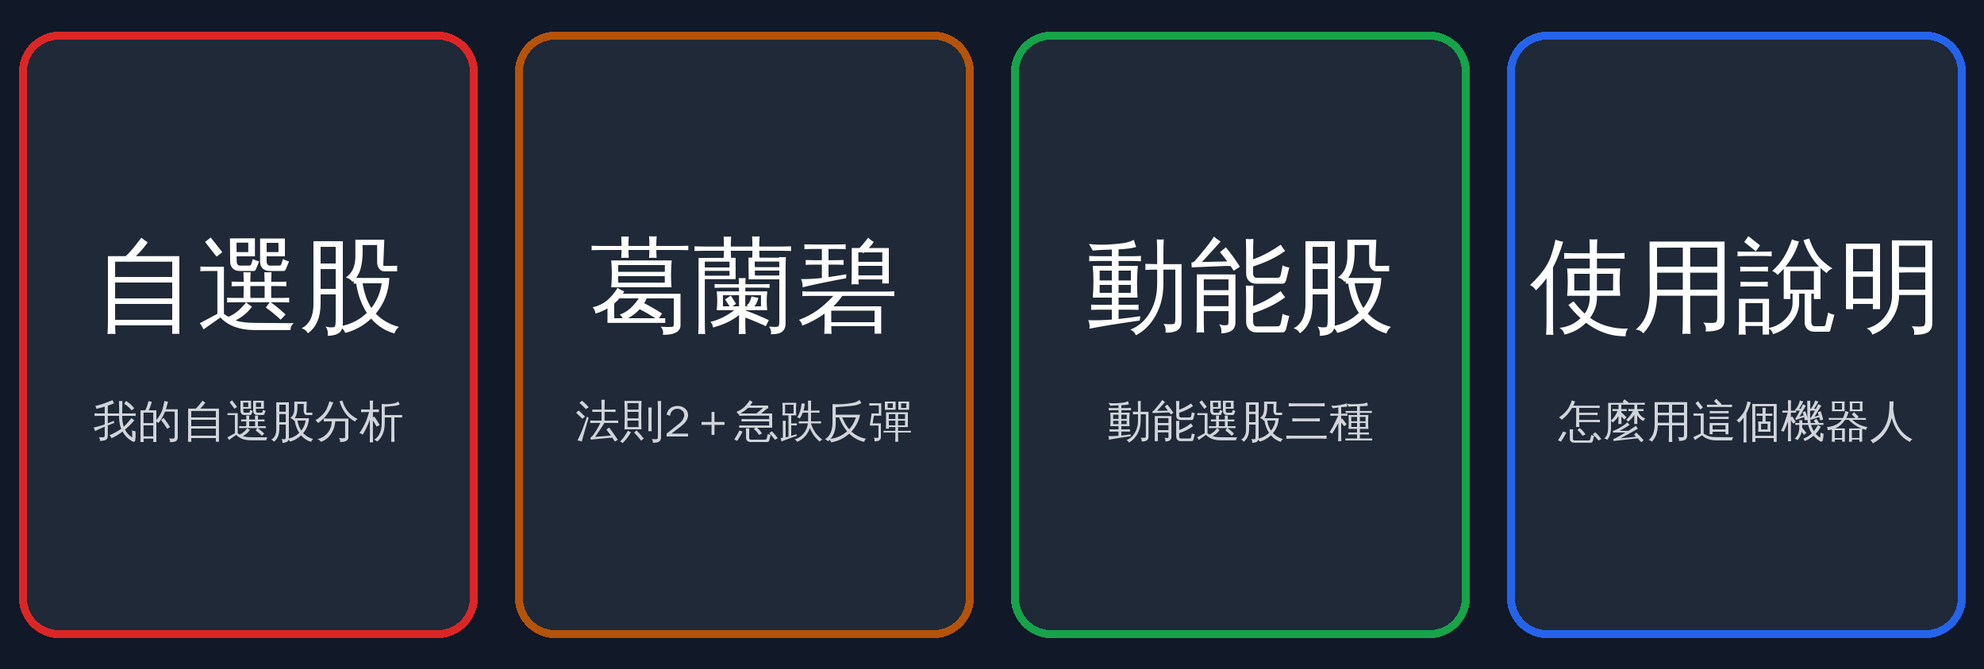
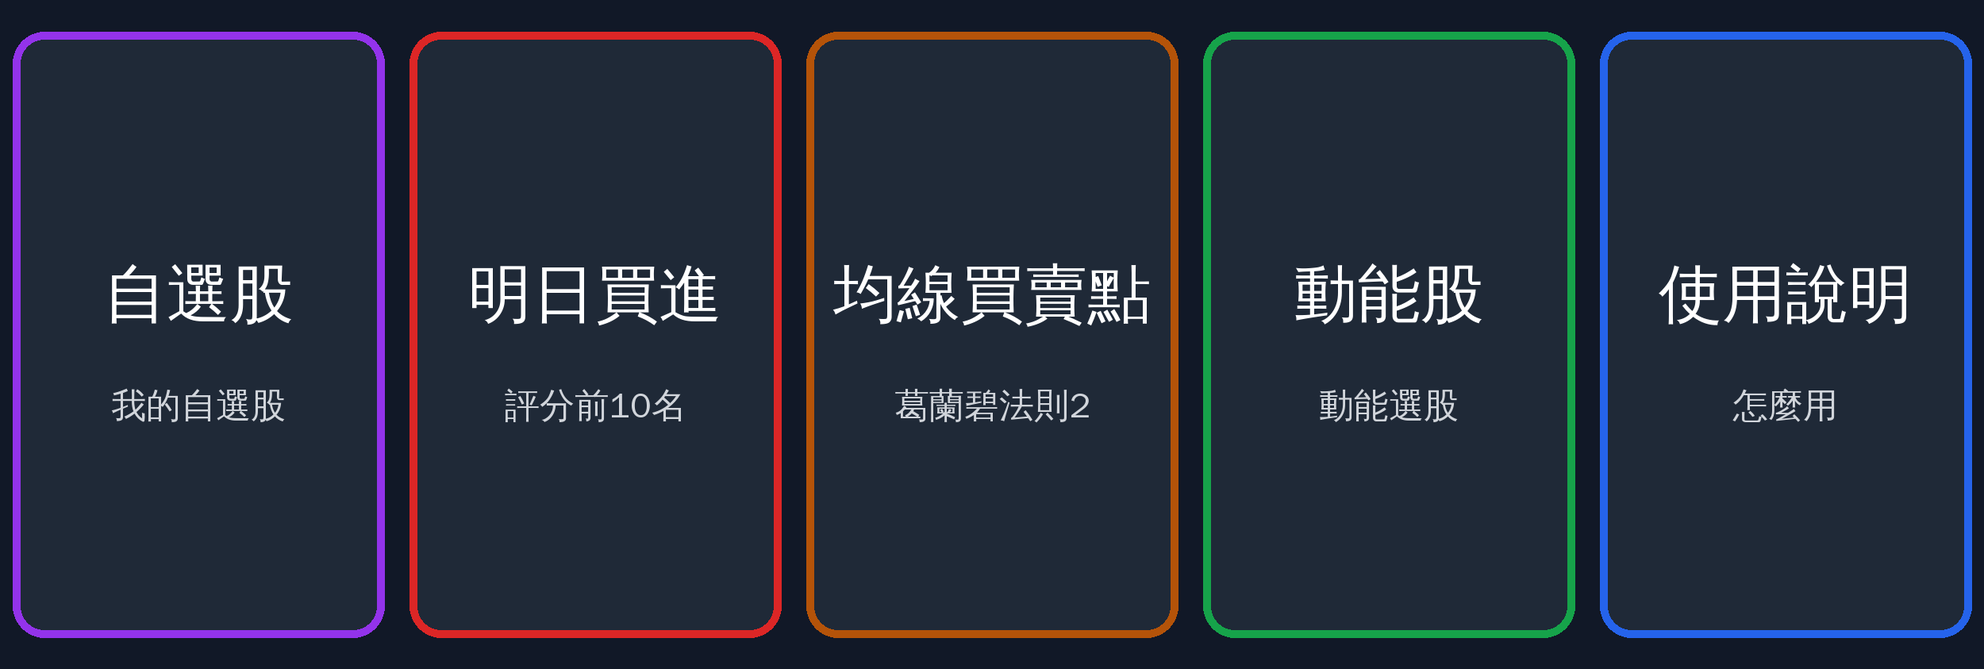
LINE 機器人和選股頁同步：新增「明日買進」、葛蘭碧改名「均線買賣點」 (#119)
* 模擬持股改用股數輸入，可模擬零股

資料表 shares 欄位仍存張數（numeric），零股存成小數，不需改資料表。

Claude-Session: https://claude.ai/code/session_01HKgB2HeqGr9wm6n5qEToDQ

* 葛蘭碧準備買進：標示盤整股（近 40 日穿越均線 6 次以上）並排到後面

Claude-Session: https://claude.ai/code/session_01HKgB2HeqGr9wm6n5qEToDQ

* 葛蘭碧：停損價、比大盤強弱、持股過熱提醒，模擬持股顯示出場狀態

依一年回測：盤整標示改為不影響排序；停損定為買進價 -8%；
法則 8 過熱改為提醒上移停損而非賣出。

Claude-Session: https://claude.ai/code/session_01HKgB2HeqGr9wm6n5qEToDQ

* 每日排程在每月 1～20 號補抓上個月的月營收

Claude-Session: https://claude.ai/code/session_01HKgB2HeqGr9wm6n5qEToDQ

* 選股頁改成加入自選股，自選股頁整合葛蘭碧與每日選股分析

- 葛蘭碧：拿掉「模擬交易」分頁，「加入模擬持股」改成「⭐ 加入自選股」
- 每日選股：拿掉「模擬帳戶」分頁，排行榜下方改成加入自選股；個股分數走勢加「⭐ 加入自選股」按鈕
- 規則回測改成單一個股：每個評分日的總分、排名與之後 5／10／20 日漲跌幅，比較進前 N 名時與其他時候；整體回測收進展開區
- 自選股頁分成總覽、葛蘭碧分析、每日選股分析三個分頁，總覽可加入模擬持股
- 移除不再使用的 simulate_trades、get_top_picks

Claude-Session: https://claude.ai/code/session_01HKgB2HeqGr9wm6n5qEToDQ

* 類股輪動併入全台股總覽

- 總覽分成「大盤」「類股輪動」「全台股數據」三個分頁
- 類股輪動的計算與畫面搬到 utils/sector.py，拿掉獨立的類股輪動頁
- 總覽的近 40 天收盤價多取成交量，類股輪動直接共用，不重複載入
- 側邊篩選註明只套用在全台股數據分頁；首頁頁面說明一併更新

Claude-Session: https://claude.ai/code/session_01HKgB2HeqGr9wm6n5qEToDQ

* 家人各自帳號登入，自選股與模擬持股可分組

- 登入支援多個帳號：原本的 USERNAME / PASSWORD 是主帳號，家人帳號寫在 secrets 的 [users.帳號]
- 新增 watch_groups 分組表（sql/watch_groups.sql）；自選股、模擬持股加 group_id，自選股主鍵改成 (group_id, stock_id)
- 每個帳號可以有多個分組：自選股、模擬持股頁上方切換分組，自選股頁可以新增、改名稱、刪除空的分組
- 葛蘭碧、每日選股、個股分析卡的「加入自選股」與自選股頁的「加入模擬持股」都寫進目前分組
- 原本的資料放在「預設」分組，主帳號第一次登入時認領
- 側邊欄顯示目前登入的人與登出按鈕
- 修正葛蘭碧「只看自選股與持有中的模擬持股」在清單是空的時候會出錯
[…]

Changed region(s): [[0.0, 0.0308, 0.9984, 0.9561]]

diff --git a/supabase/functions/line-webhook/lookup.ts b/supabase/functions/line-webhook/lookup.ts
@@ -16,7 +16,8 @@ const WATCH_WORDS = new Set(["自選", "自選股", "我的自選股"]);
 const MYID_WORDS = new Set(["我的id", "myid", "id"]);
 // 選單清單：每晚由 line_lists.py 算好的回覆檔
 const LIST_WORDS: Record<string, string> = {
-  "葛蘭碧": "granville.json", "等待法則2": "granville.json",
+  "明日買進": "picks.json", "買進": "picks.json", "選股": "picks.json",
+  "均線買賣點": "granville.json", "均線": "granville.json", "葛蘭碧": "granville.json", "等待法則2": "granville.json",
   "動能": "momentum.json", "動能股": "momentum.json", "動能選股": "momentum.json",
 };
 export const MAX_CHOICES = 10; // 名稱對到很多檔時，最多列幾檔讓使用者點選（LINE 快速回覆最多 13 個）
@@ -56,7 +57,8 @@ export function helpText(index: Index | null): string {
     "台積電",
     "",
     "輸入「自選」會回覆你網頁自選股每一檔的分析卡（要先對應網頁帳號：輸入「我的ID」，把那串 ID 給管理者）。",
-    "輸入「葛蘭碧」會列出等待法則 2 與急跌反彈候選（法則 4）的股票；輸入「動能股」會列出動能選股。",
+    "輸入「明日買進」會列出明天開盤要買的評分前 10 名（大盤在季線上才買、持有 10 個交易日）；",
+    "輸入「均線買賣點」會列出等待法則 2（葛蘭碧）與急跌反彈候選（法則 4）的股票；輸入「動能股」會列出動能選股。",
     "",
     "會回覆和網頁「個股分析卡」相同的分析（52 週區間、基本面、營收、籌碼、資金、技術面、葛蘭碧、每日評分、動能）。",
   ];

diff --git a/supabase/functions/line-webhook/index.ts b/supabase/functions/line-webhook/index.ts
@@ -2,7 +2,7 @@
 //
 // 卡片由 line_cards.py 每晚算好放在 Storage（archive 桶 _line_cards/），這裡只讀檔回覆；
 // 打「自選」時另外讀資料庫的分組與自選股清單（只讀，不寫入）；
-// 「葛蘭碧」「動能股」回覆 line_lists.py 每晚算好的清單（granville.json、momentum.json）。
+// 「明日買進」「均線買賣點」「動能股」回覆 line_lists.py 每晚算好的清單（picks.json、granville.json、momentum.json）。
 // 用 LINE 的回覆訊息（reply）回答，不算每月推播額度。
 //
 // 需要的設定（Supabase → Edge Functions → Secrets）：
@@ -11,7 +11,7 @@
 //   LINE_WATCH_ACCOUNTS（選填）：誰打「自選」可以看哪個網頁帳號的自選股，格式「LINE user ID:網頁帳號」，
 //     多個人用逗號分開。沒列在這裡的人打「自選」會收到說明；LINE user ID 可以在 LINE 打「我的ID」查。
 //     列在這裡的人傳訊息或加好友時，會自動換成有「自選」按鈕的完整選單（line_richmenu.py 建立，別名 watch-full）；
-//     其他人用預設的三格選單。
+//     其他人用預設的四格選單。
 // SUPABASE_URL、SUPABASE_SERVICE_ROLE_KEY 是 Supabase 自動提供的，不用設定。
 // 部署時要關掉 JWT 驗證（LINE 不會帶 Supabase 的登入憑證，改用上面的簽章驗證）。
 

diff --git a/supabase/functions/line-webhook/lookup_test.ts b/supabase/functions/line-webhook/lookup_test.ts
@@ -43,6 +43,8 @@ test("自選與我的ID", () => {
   assert.deepEqual(lookup("自選股", index), { kind: "watchlist" });
   assert.deepEqual(lookup("我的ID", index), { kind: "myid" });
   assert.deepEqual(lookup("葛蘭碧", index), { kind: "list", file: "granville.json" });
+  assert.deepEqual(lookup("均線買賣點", index), { kind: "list", file: "granville.json" });
+  assert.deepEqual(lookup("明日買進", index), { kind: "list", file: "picks.json" });
   assert.deepEqual(lookup("動能股", index), { kind: "list", file: "momentum.json" });
 });
 

diff --git a/line_lists.py b/line_lists.py
@@ -1,14 +1,15 @@
 """
-LINE 選單「葛蘭碧」「動能股」的回覆 - 和網頁同一套計算，每晚由 line_cards.py 算好存到 Storage
+LINE 選單「明日買進」「均線買賣點」「動能股」的回覆 - 和網頁同一套計算，每晚由 line_cards.py 算好存到 Storage
 
-    葛蘭碧：葛蘭碧頁「買賣預告 → 準備買進」中狀態為「⏳ 等待法則2」的股票（網頁預設參數、不加篩選），
+    明日買進：選股頁「明日買進」的評分前 10 名與參考標籤（utils.picks.buy_list），大盤在季線下時提醒先不買
+    均線買賣點：選股頁「均線買賣點」（葛蘭碧）「買賣預告 → 準備買進」中狀態為「⏳ 等待法則2」的股票（網頁預設參數、不加篩選），
             欄位、數字、說明文字和網頁表格相同（utils.analysis.granville_buy_table）；
             後面接「急跌反彈候選」（法則 4，utils.analysis.granville_rebound_table），最多一則輪播
-    動能股：每日選股頁「動能選股」的「兩者同時」「52 週新高＋量增」「今天剛符合趨勢模板」三種，
+    動能股：選股頁「評分排行」裡「動能選股」的「兩者同時」「52 週新高＋量增」「今天剛符合趨勢模板」三種，
             欄位和網頁表格相同（utils.momentum.momentum_table）
 
 每檔一張小卡，卡片下方的按鈕可以直接查那檔的完整個股分析卡。
-存放：archive 桶 / _line_cards / granville.json、momentum.json，內容是 {"date": 資料日期, "messages": [LINE 訊息]}，
+存放：archive 桶 / _line_cards / picks.json、granville.json、momentum.json，內容是 {"date": 資料日期, "messages": [LINE 訊息]}，
 LINE 機器人（supabase/functions/line-webhook）收到時原樣回覆，最多 5 則訊息。
 """
 import json
@@ -97,7 +98,7 @@ def granville_messages(date, table, rebound=None):
     rebound = rebound if rebound is not None else pd.DataFrame()
     lo, hi = HOLD_HINT
     lines = [
-        f"📐 葛蘭碧：等待法則2（{date} 收盤後）",
+        f"📐 均線買賣點（葛蘭碧）：等待法則2（{date} 收盤後）",
         f"共 {len(waiting)} 檔。同網頁選股頁「均線買賣點」的「準備買進」，預設參數（20 日均線、20 日均量 ≥ {GRANVILLE_MIN_VOLUME} 張）。",
         "",
         f"先出現法則 1，之後回檔再站回均線就是法則 2 的買點；回測是法則 2 出現隔天開盤買進、持有 {lo}～{hi} 個交易日。"
@@ -128,6 +129,47 @@ def granville_messages(date, table, rebound=None):
         lines += _rest_line(rebound, reb_rest, "代號", "名稱")
     else:
         lines.append("今天沒有出現法則 4 的股票。")
+    return [{"type": "text", "text": "\n".join(lines)[:TEXT_MAX]}] + msgs
+
+
+# ===== 明日買進 =====
+def picks_bubble(r):
+    rows = [
+        _row("排名", f"第 {int(r['rank'])} 名"),
+        _row("總分", _f(r["total_score"], decimals=0)),
+        _row("收盤", _f(r["close_price"])),
+        _row("5日%", _f(r["change_5d"], "%"), _sign_color(r["change_5d"])),
+        _row("20日%", _f(r["change_20d"], "%"), _sign_color(r["change_20d"])),
+    ]
+    note = "　".join(r["tags"]) if r["tags"] else ""
+    reasons = r.get("reasons") or []
+    if reasons:
+        note = (note + "\n" if note else "") + "加分：" + "、".join(reasons[:3])
+    return _bubble(r["stock_id"], r.get("stock_name") or "", r.get("industry"), f"🛒 評分第 {int(r['rank'])} 名",
+                   rows, note=note or None)
+
+
+def picks_messages(date, top, regime):
+    """明日買進回覆：第一則文字（大盤狀態、規則、檔名），之後一則輪播（每檔一張卡）"""
+    from utils.analysis import MARKET_MA
+    from utils.picks import HOLD, TOP_N
+    if top.empty:
+        return [{"type": "text", "text": "還沒有評分資料。"}]
+    ok = bool(regime) and not regime["below"]
+    lines = [f"🛒 明日買進（{date} 收盤後）"]
+    if regime:
+        lines.append(("🟢 大盤在季線上：可以照規則買進" if ok else "🔴 大盤在季線下：先不買新股票")
+                     + f"（加權指數 {regime['close']:,.0f}，{MARKET_MA} 日均線 {regime['ma']:,.0f}，{regime['gap']:+.1f}%）")
+    lines += [
+        "",
+        f"規則：大盤在季線上時，隔天開盤買評分前 {TOP_N} 名，持有 {HOLD} 個交易日後開盤賣出。同網頁選股頁「明日買進」。",
+        "回測（2025-01～2026-10）總報酬 +476%、最大回撤 −15.3%，同期大盤 +105%；期間是大多頭，以後可能明顯較低。",
+        "",
+    ]
+    lines += [f"{int(r['rank'])}. {r['stock_id']} {r.get('stock_name') or ''}（{_f(r['total_score'], decimals=0)} 分）"
+              + (f"　{'　'.join(r['tags'])}" if r["tags"] else "") for _, r in top.iterrows()]
+    lines += ["", "標籤只是參考，不影響買賣：🚀 動能選股訊號、🎯 布林收斂、📐 近 5 日法則 2、⚠ 漲多或葛蘭碧賣訊。"]
+    msgs, _ = _pack("明日買進", [picks_bubble(r) for _, r in top.iterrows()], 1)
     return [{"type": "text", "text": "\n".join(lines)[:TEXT_MAX]}] + msgs
 
 
@@ -207,20 +249,25 @@ def load_momentum():
 def build_lists():
     """回傳 {檔名: 內容}，給 line_cards.upload 一起上傳"""
     from utils.analysis import granville_default, load_market_regime, market_warning
+    from utils.picks import buy_list
     g_date, table, rebound = granville_default()
     m_date, m_msgs = momentum_messages(load_momentum())
-    warn = market_warning(load_market_regime())
+    p_date, top = buy_list()
+    regime = load_market_regime()
+    warn = market_warning(regime)
     lists = {
         "granville.json": {"date": g_date, "messages": granville_messages(g_date, table, rebound)},
         "momentum.json": {"date": m_date, "messages": m_msgs},
     }
     for content in lists.values():
         add_warning(content["messages"], warn)
+    # 明日買進的第一則已寫大盤狀態，不再加提醒
+    lists["picks.json"] = {"date": p_date, "messages": picks_messages(p_date, top, regime)}
     return lists
 
 
 def add_warning(messages, warn):
-    """大盤在季線下時，把提醒加在第一則文字訊息最前面（同網頁葛蘭碧頁、每日選股頁頂端的提醒）"""
+    """大盤在季線下時，把提醒加在第一則文字訊息最前面（同網頁選股頁各分頁頂端的提醒）"""
     if warn and messages and messages[0].get("type") == "text":
         messages[0]["text"] = (warn + "\n\n" + messages[0]["text"])[:TEXT_MAX]
 

diff --git a/app/views/picks.py b/app/views/picks.py
@@ -2,16 +2,15 @@ import streamlit as st
 import pandas as pd
 import sys
 import os
-from datetime import date, timedelta
 
 sys.path.append(os.path.join(os.path.dirname(__file__), ".."))
 from utils.glossary import render_page_guide
 from utils.db import (
-    get_stock_list, get_signal_dates, get_top_signals, get_top_ranks, get_market_index, get_momentum_latest,
+    get_stock_list, get_signal_dates, get_top_ranks, get_market_index,
     get_rows_for_stocks, get_price_adjustments, apply_adjustments,
 )
 from utils.analysis import MARKET_MA, TRADE_COST_PCT, load_market_regime
-from utils.picks import BACKTEST_MD, HOLD, RULES_MD, TOP_N, market_ok_by_date, pick_record, stock_tags
+from utils.picks import BACKTEST_MD, HOLD, RULES_MD, TOP_N, buy_list, market_ok_by_date, pick_record
 from utils.watch import add_watch_form
 from utils.ui import render_metric_cards, style_sign
 
@@ -22,11 +21,8 @@ render_page_guide("picks")
 # ===== 載入資料 =====
 @st.cache_data(ttl=3600)
 def load_today():
-    """最新評分日與當天每日選股前 N 名"""
-    dates = get_signal_dates(n=1)
-    if not dates:
-        return None, pd.DataFrame()
-    return dates[0], get_top_signals(dates[0], TOP_N)
+    """最新評分日與當天每日選股前 N 名（含名稱、產業、參考標籤）"""
+    return buy_list()
 
 
 RECORD_DAYS = 20  # 紀錄最近幾個評分日的前 N 名
@@ -51,30 +47,16 @@ def load_record():
 
 
 @st.cache_data(ttl=3600)
-def load_tags(ids):
-    """參考標籤：動能（最新一天）、布林收斂、葛蘭碧（約 200 個日曆天的還原權值收盤價）"""
-    ids = list(ids)
-    since = (date.today() - timedelta(days=200)).isoformat()
-    prices = get_rows_for_stocks("daily_prices", ids, since=since, columns="stock_id, date, close_price")
-    if not prices.empty:
-        prices = apply_adjustments(prices, get_price_adjustments(None, since))
-    return stock_tags(ids, prices, get_momentum_latest())
-
-
-@st.cache_data(ttl=3600)
 def load_names():
     info = get_stock_list(include_delisted=True)
-    if info.empty:
-        return {}, {}
-    return dict(zip(info["stock_id"], info["stock_name"].fillna(""))), dict(zip(info["stock_id"], info["industry"].fillna("")))
+    return dict(zip(info["stock_id"], info["stock_name"].fillna(""))) if not info.empty else {}
 
 
 last, today = load_today()
 if last is None or today.empty:
     st.warning("還沒有評分資料。等今晚的每日排程跑完就會出現。")
     st.stop()
-names, industries = load_names()
-tags = load_tags(tuple(sorted(today["stock_id"])))
+names = load_names()
 regime = load_market_regime()
 market_ok = bool(regime) and not regime["below"]
 
@@ -95,14 +77,14 @@ with tab_buy:
     st.markdown(f"#### {last} 每日選股前 {TOP_N} 名" + ("" if market_ok else "（大盤在季線下，先不買）"))
     view = pd.DataFrame({
         "排名": today["rank"], "代號": today["stock_id"],
-        "名稱": today["stock_id"].map(names), "產業": today["stock_id"].map(industries),
-        "總分": today["total_score"], "參考標籤": today["stock_id"].map(lambda s: "　".join(tags.get(s, []))),
+        "名稱": today["stock_name"], "產業": today["industry"],
+        "總分": today["total_score"], "參考標籤": today["tags"].map("　".join),
     })
     st.dataframe(view, hide_index=True, width="stretch",
                  column_config={"排名": pct(format="%d"), "總分": pct(format="%d", help="滿分 100（規則 v5）"),
                                 "參考標籤": st.column_config.TextColumn(width="large")})
     st.caption(f"隔天開盤買進，持有 {HOLD} 個交易日後開盤賣出。標籤只是參考，不影響買賣。")
-    add_watch_form(today.assign(stock_name=today["stock_id"].map(names)), "選股", last, "picks_page")
+    add_watch_form(today, "選股", last, "picks_page")
 
 with tab_record:
     st.caption(f"最近 {RECORD_DAYS} 個評分日的前 {TOP_N} 名，如果照規則隔天開盤買、第 {HOLD} 個交易日開盤賣，"

diff --git a/assets/make_richmenu.py b/assets/make_richmenu.py
@@ -2,17 +2,17 @@
 LINE 圖文選單的圖片。改按鈕文字時改這裡重新產生：
     pip install pillow && python assets/make_richmenu.py
 會產生兩張：
-    assets/line_richmenu.png：完整四格（自選股、葛蘭碧、動能股、使用說明），給有對應網頁帳號的人
-    assets/line_richmenu_basic.png：三格（沒有自選股），所有人的預設選單
+    assets/line_richmenu.png：完整五格（自選股、明日買進、均線買賣點、動能股、使用說明），給有對應網頁帳號的人
+    assets/line_richmenu_basic.png：四格（沒有自選股），所有人的預設選單
 需要中文字型（預設用文泉驛正黑，路徑不同時改 FONT）。按鈕對應的文字在 line_richmenu.py 的 FULL_AREAS／BASIC_AREAS。
 """
 from PIL import Image, ImageDraw, ImageFont
 W, H = 2500, 843
 FONT = "/usr/share/fonts/truetype/wqy/wqy-zenhei.ttc"
-big, small = ImageFont.truetype(FONT, 130), ImageFont.truetype(FONT, 56)
-WATCH = ("自選股", "我的自選股分析", "#dc2626")
-OTHERS = [("葛蘭碧", "法則2＋急跌反彈", "#b45309"), ("動能股", "動能選股三種", "#16a34a"),
-          ("使用說明", "怎麼用這個機器人", "#2563eb")]
+big, small = ImageFont.truetype(FONT, 80), ImageFont.truetype(FONT, 44)
+WATCH = ("自選股", "我的自選股", "#9333ea")
+OTHERS = [("明日買進", "評分前10名", "#dc2626"), ("均線買賣點", "葛蘭碧法則2", "#b45309"),
+          ("動能股", "動能選股", "#16a34a"), ("使用說明", "怎麼用", "#2563eb")]
 
 
 def draw(cells, path):
@@ -21,9 +21,9 @@ def draw(cells, path):
     w = W // len(cells)
     for i, (t, sub, color) in enumerate(cells):
         x0 = i * w
-        d.rounded_rectangle([x0 + 24, 40, x0 + w - 24, H - 40], radius=50, fill="#1f2937", outline=color, width=10)
-        d.text((x0 + w / 2, H / 2 - 60), t, font=big, fill="white", anchor="mm")
-        d.text((x0 + w / 2, H / 2 + 110), sub, font=small, fill="#d1d5db", anchor="mm")
+        d.rounded_rectangle([x0 + 16, 40, x0 + w - 16, H - 40], radius=40, fill="#1f2937", outline=color, width=10)
+        d.text((x0 + w / 2, H / 2 - 50), t, font=big, fill="white", anchor="mm")
+        d.text((x0 + w / 2, H / 2 + 90), sub, font=small, fill="#d1d5db", anchor="mm")
     img.save(path, optimize=True)
 
 

diff --git a/line_richmenu.py b/line_richmenu.py
@@ -2,8 +2,8 @@
 LINE 圖文選單 - 聊天室下方的按鈕，點了就送出對應的文字給機器人
 
 有兩套選單：
-    一般選單（三格：葛蘭碧、動能股、使用說明）：所有人的預設選單
-    完整選單（四格，多了自選股）：只給有對應網頁帳號的人。
+    一般選單（四格：明日買進、均線買賣點、動能股、使用說明）：所有人的預設選單
+    完整選單（五格，多了自選股）：只給有對應網頁帳號的人。
         LINE_USER_ID（你自己）在這裡直接換成完整選單；
         其他列在 Supabase LINE_WATCH_ACCOUNTS 的人，傳訊息給機器人時由 Edge Function line-webhook 自動換
         （靠選單別名 FULL_ALIAS 找到完整選單）。
@@ -23,8 +23,10 @@ DATA_API = "https://api-data.line.me/v2/bot"
 ASSETS = Path(__file__).resolve().parent / "assets"
 WIDTH, HEIGHT = 2500, 843
 # 按鈕平分寬度，點了送出的文字（和 Edge Function line-webhook 認得的指令相同）
-FULL_NAME, FULL_IMAGE, FULL_AREAS = "台股分析選單", ASSETS / "line_richmenu.png", ["自選", "葛蘭碧", "動能股", "說明"]
-BASIC_NAME, BASIC_IMAGE, BASIC_AREAS = "台股分析選單（一般）", ASSETS / "line_richmenu_basic.png", ["葛蘭碧", "動能股", "說明"]
+FULL_NAME, FULL_IMAGE, FULL_AREAS = ("台股分析選單", ASSETS / "line_richmenu.png",
+                                     ["自選", "明日買進", "均線買賣點", "動能股", "說明"])
+BASIC_NAME, BASIC_IMAGE, BASIC_AREAS = ("台股分析選單（一般）", ASSETS / "line_richmenu_basic.png",
+                                        ["明日買進", "均線買賣點", "動能股", "說明"])
 FULL_ALIAS = "watch-full"  # 要和 line-webhook 的 FULL_MENU_ALIAS 相同
 
 

diff --git a/app/utils/picks.py b/app/utils/picks.py
@@ -146,3 +146,34 @@ def stock_tags(ids, prices, momentum):
             if bool(sell.get(sid, False)):
                 tags[sid].append("⚠ 葛蘭碧賣訊")
     return tags
+
+
+def buy_list():
+    """
+    明日買進清單（網頁選股頁與 LINE 共用）：最新評分日前 TOP_N 名，加上名稱、產業與參考標籤。
+    回傳 (評分日, DataFrame)；沒有資料時是 (None, 空表)
+    """
+    from datetime import date, timedelta
+    from utils.db import (
+        apply_adjustments, get_momentum_latest, get_price_adjustments, get_rows_for_stocks, get_signal_dates,
+        get_stock_list, get_top_signals,
+    )
+    dates = get_signal_dates(n=1)
+    if not dates:
+        return None, pd.DataFrame()
+    top = get_top_signals(dates[0], TOP_N)
+    if top.empty:
+        return dates[0], top
+    ids = sorted(top["stock_id"])
+    since = (date.today() - timedelta(days=200)).isoformat()
+    prices = get_rows_for_stocks("daily_prices", ids, since=since, columns="stock_id, date, close_price")
+    if not prices.empty:
+        prices = apply_adjustments(prices, get_price_adjustments(None, since))
+    tags = stock_tags(ids, prices, get_momentum_latest())
+    info = get_stock_list(include_delisted=True)
+    if not info.empty:
+        top = top.merge(info[["stock_id", "stock_name", "industry"]], on="stock_id", how="left")
+    else:
+        top = top.assign(stock_name="", industry="")
+    top["tags"] = top["stock_id"].map(lambda s: tags.get(s, []))
+    return dates[0], top.sort_values("rank").reset_index(drop=True)

diff --git a/tests/test_line_lists.py b/tests/test_line_lists.py
@@ -107,3 +107,22 @@ def test_rule4_events_first_day_only():
     ev = rule4_events(pd.DataFrame(rows), min_volume=500, days=20)
     assert len(ev) == 1 and ev.loc[0, "stock_id"] == "9999" and ev.loc[0, "bias"] <= -10
     assert rule4_events(pd.DataFrame(rows), min_volume=5000, days=20).empty  # 均量不夠
+
+
+def test_picks_list(use_db):
+    """明日買進：第一則寫大盤狀態與前 10 名，之後一則輪播、每檔一張卡"""
+    use_db()
+    from utils.analysis import load_market_regime
+    from utils.picks import buy_list
+    date, top = buy_list()
+    msgs = line_lists.picks_messages(date, top, load_market_regime())
+    size_ok(msgs)
+    assert "明日買進" in msgs[0]["text"] and "大盤在季線" in msgs[0]["text"]
+    cards = msgs[1]["contents"]["contents"]
+    assert len(cards) == len(top) and cards[0]["footer"]["contents"][0]["action"]["text"] == top.iloc[0]["stock_id"]
+    assert line_lists.picks_messages(None, top.iloc[0:0], None)[0]["text"] == "還沒有評分資料。"
+
+
+def test_build_lists_has_picks(use_db):
+    use_db()
+    assert {"picks.json", "granville.json", "momentum.json"} <= set(line_lists.build_lists())
